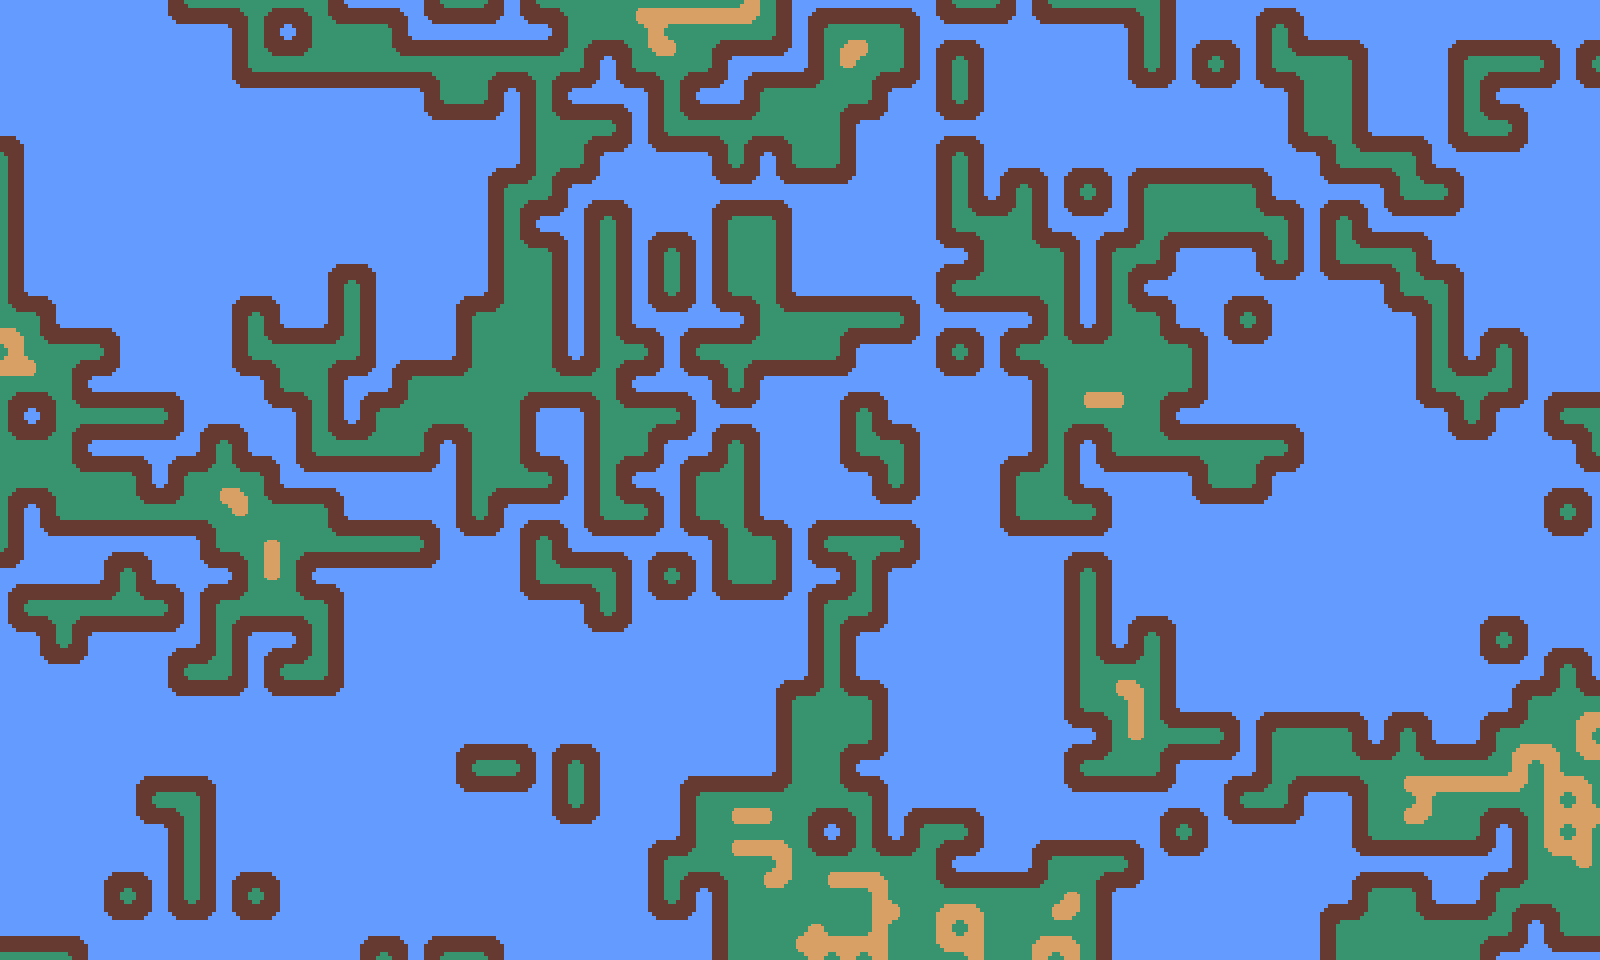
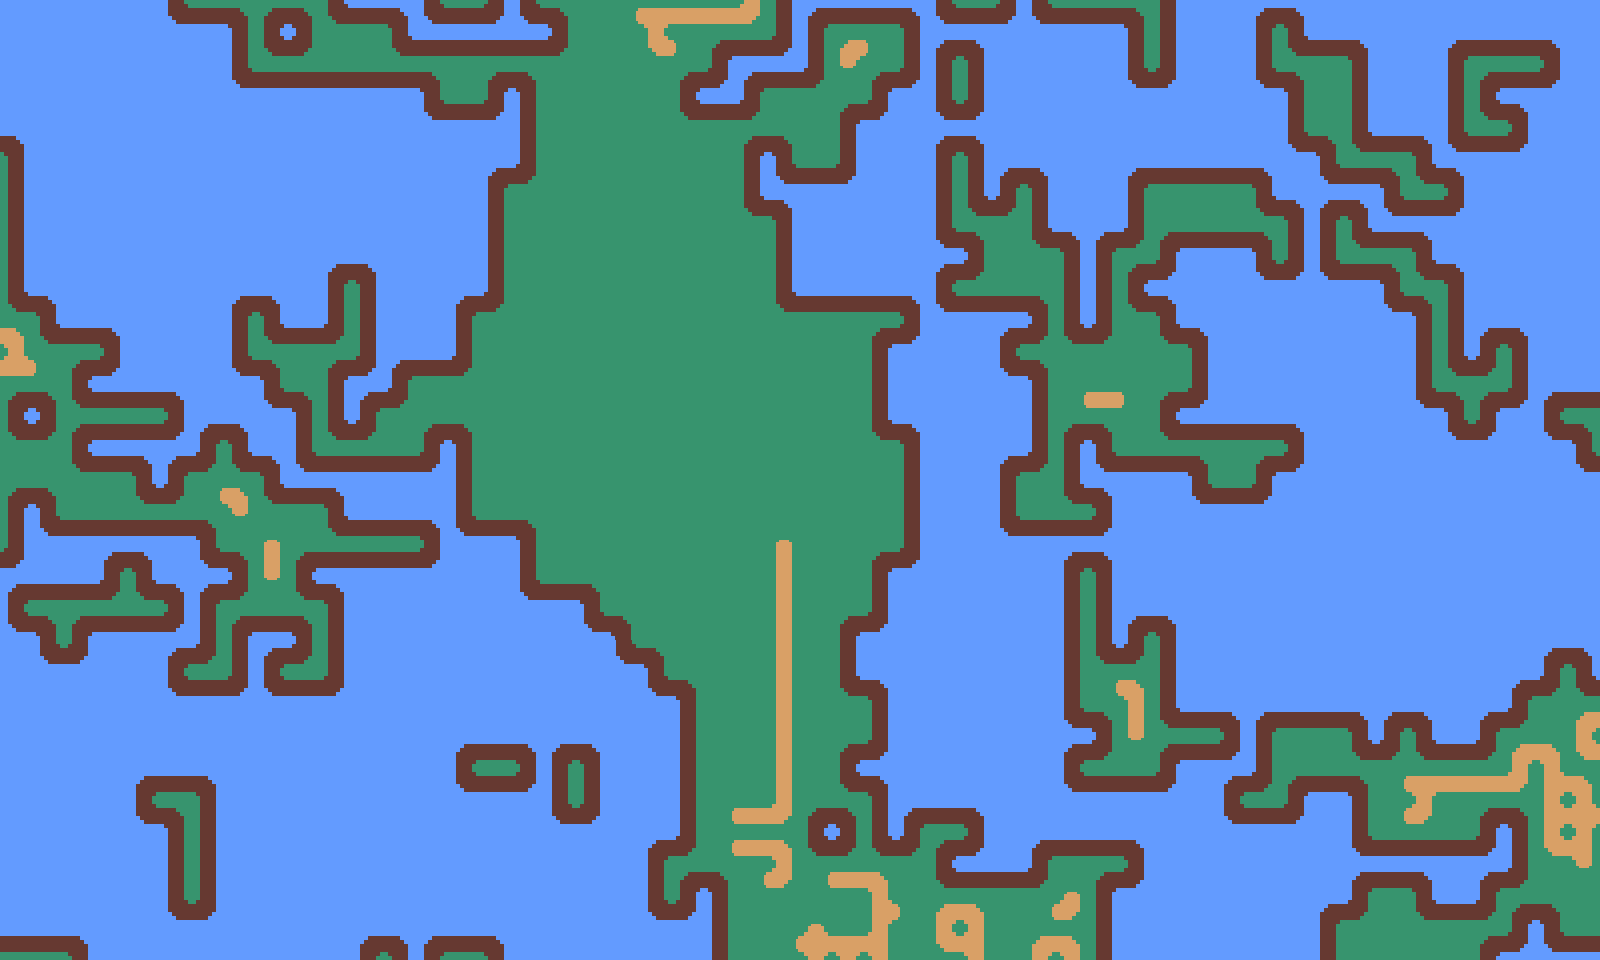
propagation

diff --git a/src/main.rs b/src/main.rs
@@ -6,8 +6,10 @@ use macroquad::{prelude::*, rand::{ChooseRandom, srand}, telemetry::ZoneGuard};
 const TILE_SIZE: f32 = 8.;
 const PATTERN_SIZE: f32 = 32.;
 const SCREEN_WIDTH: f32 = 1600.;
-const SCREEN_HEIGHT: f32 = 960.;
-const HISTORY_LENGTH: usize = 10;
+const SCREEN_HEIGHT: f32 = 800.;
+
+const EDGES_INDEXES: [(usize, usize); 4] = [(0, 2), (1, 3), (2, 0), (3, 1)];
+
 
 type Edges = [Vec<Color>; 4];
 
@@ -20,9 +22,6 @@ fn window_conf() -> Conf {
   }
 }
 
-fn patterns_are_equal(pa: &Pattern, pb: &Pattern) -> bool {
-  pa.texture_index == pb.texture_index
-}
 
 fn xy_from_index(index: usize, width: usize) -> (usize, usize) {
   (index % width, index / width)
@@ -42,8 +41,8 @@ fn image_to_textures(image: &Image, step: usize) -> (Vec<Texture2D>, Vec<u32>) {
   let mut x = 0;
   let mut y = 0;
   while x < image.width() && y < image.height() {
+    let img = image.sub_image(Rect::new(x as f32, y as f32, step as f32, step as f32));
     for rot in 0..4 {
-      let img = image.sub_image(Rect::new(x as f32, y as f32, step as f32, step as f32));
       let img = rotate_image(&img, rot);
       let tex = Texture2D::from_image(&img);
       tex.set_filter(FilterMode::Nearest);
@@ -148,18 +147,6 @@ impl Pattern {
       weight,
     }
   }
-
-  // pub fn draw(&self, x: f32, y: f32, res: &[Texture2D]) {
-  //   draw_texture_ex(
-  //     res[self.texture_index],
-  //     x, y,
-  //     WHITE,
-  //     DrawTextureParams {
-  //       dest_size: Some(vec2(TILE_SIZE, TILE_SIZE)),
-  //       ..Default::default()
-  //     },
-  //   );
-  // }
 }
 
 #[derive(Clone, Debug)]
@@ -188,18 +175,6 @@ impl MapTile {
       .unwrap()
       .clone()
   }
-
-  // pub fn draw(&self, x: f32, y: f32, res: &[Texture2D]) {
-  //   if let Some(collapsed) = &self.collapsed {
-  //     collapsed.draw(x, y, res);
-  //   } else {
-  //     let _font_size = TILE_SIZE;
-  //     if self.options.len() == 0 {
-  //       draw_rectangle(x, y, TILE_SIZE, TILE_SIZE, RED);
-  //     }
-  //     // draw_text(&format!("{}", self.options.len()), x, y + font_size, font_size, BLACK);
-  //   }
-  // }
 }
 
 #[derive(Clone)]
@@ -209,7 +184,6 @@ struct Map {
   tiles: Vec<MapTile>,
   image: Image,
   texture: Texture2D,
-  history: Vec<(Vec<(MapTile, usize)>, Pattern)>
 }
 
 impl Map {
@@ -220,7 +194,7 @@ impl Map {
     }
     let image = Image::gen_image_color((width * PATTERN_SIZE as usize) as u16, (height * PATTERN_SIZE as usize) as u16, DARKGRAY);
 
-    Self { width, height, tiles, history: vec![], image: image.clone(), texture: Texture2D::from_image(&image)  }
+    Self { width, height, tiles, image: image.clone(), texture: Texture2D::from_image(&image)  }
   }
 
   pub fn reset(&mut self, options: &Vec<Pattern>) {
@@ -228,16 +202,9 @@ impl Map {
       t.options = options.clone();
       t.collapsed = None;
     }
-    self.history.clear();
+    self.image = Image::gen_image_color((self.width * PATTERN_SIZE as usize) as u16, (self.height * PATTERN_SIZE as usize) as u16, DARKGRAY);
+    self.texture = Texture2D::from_image(&self.image);
   }
-
-  // pub fn draw(&self, res: &[Texture2D]) {
-  //   let _z = ZoneGuard::new("draw");
-  //   for i in 0..self.tiles.len() {
-  //     let (x, y) = xy_from_index(i, self.width);
-  //     self.tiles[i].draw(x as f32 *  TILE_SIZE, y as f32 *  TILE_SIZE, res);
-  //   }
-  // }
 
   pub fn draw_image(&self) {
     draw_texture_ex(
@@ -249,91 +216,38 @@ impl Map {
         ..Default::default()
       },
     );
-  }
-
-  pub fn compare(&mut self, pattern: &Pattern, x: usize, y: usize, edge_size_i: usize, edge_size_j: usize) {
-    let _z = ZoneGuard::new("compare");
-    let j = index_from_xy(x, y, self.width);
-    let edge = pattern.edges[edge_size_i].clone();
-    self.tiles[j].options.retain(|p| p.edges[edge_size_j] == edge);
-  }
-
-  pub fn unwind(&mut self) {
-    let _z = ZoneGuard::new("unwind");
-    let (mut map_tiles, pattern) = self.history.pop().unwrap();
-    map_tiles[0].0.options.retain(|p| !patterns_are_equal(p, &pattern));
-
-    for (t, i) in map_tiles {
-      self.tiles[i] = t;
+    #[cfg(debug_assertions)]
+    for i in 0..self.width * self.height {
+      let (x, y) = xy_from_index(i, self.width);
+      let options_len = self.tiles[i].options.len();
+      draw_text(&format!("{}", options_len), x as f32 * TILE_SIZE, TILE_SIZE + y as f32 * TILE_SIZE, TILE_SIZE, BLACK);
     }
   }
 
-  pub fn get_surrounding_indexes(&self, x: usize, y: usize) -> Vec<usize> {
-    let mut idx = vec![];
-    idx.push(index_from_xy(x, y, self.width));
-    //top
-    if y != 0 {
-      idx.push(index_from_xy(x, y - 1, self.width));
-    }
-    //left
-    if x != self.width - 1 {
-      idx.push(index_from_xy(x + 1, y, self.width));
-    }
-    //bottom
-    if y != self.height - 1 {
-      idx.push(index_from_xy(x, y + 1, self.width));
-    }
-    //right
-    if x != 0 {
-      idx.push(index_from_xy(x - 1, y, self.width));
-    }
-    //top-left
-    if y != 0 && x != 0 {
-      idx.push(index_from_xy(x - 1, y - 1, self.width));
-    }
-    //top-right
-    if y != 0 && x != self.width - 1 {
-      idx.push(index_from_xy(x + 1, y - 1, self.width));
-    }
-    //bottom-left
-    if y != self.height - 1 && x != 0 {
-      idx.push(index_from_xy(x - 1, y + 1, self.width));
-    }
-    //bottom-right
-    if y != self.height - 1 && x != self.width - 1 {
-      idx.push(index_from_xy(x + 1, y + 1, self.width));
-    }
-    idx
-  }
-
-  pub fn apply_collapse(&mut self, pattern: &Pattern, x: usize, y: usize, res: &[Texture2D]) {
-    let image = res[pattern.clone().texture_index].get_texture_data();
-    for ix in 0..(PATTERN_SIZE as u32) {
-      for iy in 0..(PATTERN_SIZE as u32) {
-        self.image.set_pixel((x * PATTERN_SIZE as usize) as u32 + ix, (y * PATTERN_SIZE as usize) as u32 + iy, image.get_pixel(ix, iy));
+  pub fn apply_collapse(&mut self, x: usize, y: usize, res: &[Texture2D]) {
+    let i = index_from_xy(x, y, self.width);
+    if let Some(pattern) = self.tiles[i].collapsed.clone() {
+      let image = res[pattern.clone().texture_index].get_texture_data();
+      for ix in 0..(PATTERN_SIZE as u32) {
+        for iy in 0..(PATTERN_SIZE as u32) {
+          self.image.set_pixel((x * PATTERN_SIZE as usize) as u32 + ix, (y * PATTERN_SIZE as usize) as u32 + iy, image.get_pixel(ix, iy));
+        }
       }
+      self.texture.update(&self.image);
     }
-    self.texture.update(&self.image);
   }
 
   pub fn step(&mut self, res: &[Texture2D]) -> bool {
     let _z = ZoneGuard::new("step");
     if let Some((x, y)) = self.lowest_entropy_tile() {
-      let map_tiles = self.get_surrounding_indexes(x, y).iter().map(|i| (self.tiles[*i].clone(), *i)).collect();
-      if let Some(pattern) = self.collapse(x, y) {
-        let _z = ZoneGuard::new("step");
-        self.apply_collapse(&pattern, x, y, res);
+      if self.collapse(x, y) {
+        let collapsed_by_propagate = self.propagate(x, y);
+        self.apply_collapse(x, y, res);
 
-        self.history.push((map_tiles, pattern));
-        if self.history.len() - 1 == HISTORY_LENGTH {
-          self.history.remove(0);
+        for (x, y) in collapsed_by_propagate {
+          self.apply_collapse(x, y, res);
         }
-
         return true;
-      } else if self.history.len() > 0 {
-        self.unwind();
-        return true;
-        // return self.step();
       }
     }
     false
@@ -365,37 +279,73 @@ impl Map {
     }
   }
 
-  pub fn collapse(&mut self, x: usize, y: usize) -> Option<Pattern> {
-    let _z = ZoneGuard::new("collapse");
-    // let (x, y) = self.lowest_entropy_tile();
-    let i = index_from_xy(x, y, self.width);
-    if self.tiles[i].options.len() == 0 {
-      return None;
-    }
-
-    // let pattern = self.tiles[i].options.choose().unwrap().clone();
-    let pattern = self.tiles[i].choose_pattern();
-
+  pub fn get_neighbours(&self, x: usize, y: usize) -> [Option<(usize, usize)>; 4] {
+    let mut result = [None, None, None, None];
     //top
     if y != 0 {
-      self.compare(&pattern, x, y - 1, 0, 2);
+      result[0] = Some((x, y - 1));
     }
     //left
     if x != self.width - 1 {
-      self.compare(&pattern, x + 1, y, 1, 3);
+      result[1] = Some((x + 1, y));
     }
     //bottom
     if y != self.height - 1 {
-      self.compare(&pattern, x, y + 1, 2, 0);
+      result[2] = Some((x, y + 1));
     }
     //right
     if x != 0 {
-      self.compare(&pattern, x - 1, y, 3, 1);
+      result[3] = Some((x - 1, y));
+    }
+    result
+  }
+
+  pub fn propagate(&mut self, x: usize, y: usize) -> Vec<(usize, usize)> {
+    let mut collapsed = vec![];
+    let mut stack = vec![(x, y)];
+
+    while stack.len() > 0 {
+      let (x, y) = stack.remove(0);
+      let source_idx = index_from_xy(x, y, self.width);
+      let patterns = self.tiles[source_idx].collapsed.clone()
+        .map(|p| vec![p])
+        .unwrap_or(self.tiles[source_idx].options.clone());
+
+      for (edge_idx, pos) in self.get_neighbours(x, y).into_iter().enumerate() {
+        if let Some((tx, ty)) = pos {
+          let target_idx = index_from_xy(tx, ty, self.width);
+          if self.tiles[target_idx].collapsed.is_some() {
+            continue;
+          }
+
+          let edge_idxes = EDGES_INDEXES[edge_idx];
+          let options_before = self.tiles[target_idx].options.len();
+          let edges: Vec<usize> = patterns.iter().map(|p| p.edges[edge_idxes.0]).collect();
+          self.tiles[target_idx].options.retain(|p| edges.contains(&p.edges[edge_idxes.1]));
+
+          if self.tiles[target_idx].options.len() < options_before {
+            stack.push((tx, ty));
+          }
+
+          if self.tiles[target_idx].options.len() == 1 {
+            self.tiles[target_idx].collapsed = Some(self.tiles[target_idx].options[0].clone());
+            collapsed.push((tx, ty));
+          }
+        }
+      }
     }
 
-    self.tiles[i].collapsed = Some(pattern.clone());
+    collapsed
+  }
 
-    Some(pattern)
+  pub fn collapse(&mut self, x: usize, y: usize) -> bool {
+    let i = index_from_xy(x, y, self.width);
+    if self.tiles[i].options.len() == 0 {
+      return false;
+    }
+
+    self.tiles[i].collapsed = Some(self.tiles[i].choose_pattern());
+    true
   }
 }
 
@@ -443,7 +393,6 @@ async fn main() {
   let mut map = Map::new(&options, (SCREEN_WIDTH / TILE_SIZE) as usize, (SCREEN_HEIGHT / TILE_SIZE) as usize);
   let mut play = false;
   let mut started = false;
-  let mut can_continue = true;
   let since_the_epoch = SystemTime::now().duration_since(UNIX_EPOCH).expect("Time went backwards");
   let seed = since_the_epoch.as_secs();
   srand(seed);
@@ -451,24 +400,21 @@ async fn main() {
   loop {
     clear_background(DARKGRAY);
 
-    if can_continue && play {
-      // can_continue = map.collapse().is_some();
-      can_continue = map.step(&resources);
+    if play {
+      map.step(&resources);
     }
 
     if is_key_released(KeyCode::Enter) {
       play = !play;
     }
-    if can_continue && !play && is_key_released(KeyCode::Space) {
-      // can_continue = map.collapse().is_some();
-      can_continue = map.step(&resources);
+    if !play && is_key_released(KeyCode::Space) {
+      play = !map.step(&resources);
     }
-    if !can_continue && is_key_released(KeyCode::Space) {
-      // export_map(&map, &resources);
+    if is_key_released(KeyCode::R) {
       map.reset(&options);
-      can_continue = true;
+      play = true;
     }
-    if !can_continue && is_key_released(KeyCode::E) {
+    if !play && is_key_released(KeyCode::E) {
       map.image.export_png(&format!("export-{}", seed));
     }
 
@@ -476,14 +422,14 @@ async fn main() {
       draw_patterns(&resources, &options);
       started = map.tiles.iter().any(|t| t.collapsed.is_some())
     } else {
-      // map.draw(&resources);
       map.draw_image();
-      // map.draw_by_res_index(&resources);
     }
 
-    // draw_text(&format!("paused: {}, running: {}, history length: {}", !play, can_continue, map.history.len()), 2., 32., 30., WHITE);
     #[cfg(debug_assertions)]
-    macroquad_profiler::profiler(Default::default());
+    {
+      draw_text(&format!("running: {}", play), 2., 32., 30., WHITE);
+      macroquad_profiler::profiler(Default::default());
+    }
 
     next_frame().await
   }
